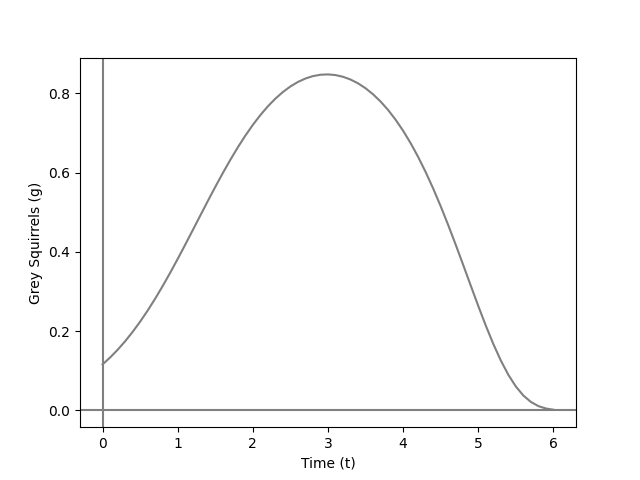
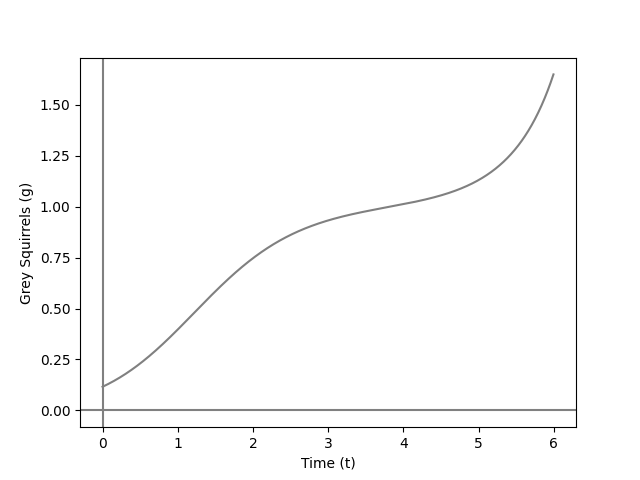
Added dual plots t0 and t=0.1

diff --git a/Question_2.py b/Question_2.py
@@ -7,8 +7,6 @@ plt.xlabel("Red Squirrels (r)")
 plt.ylabel("Grey Squirrels (g)")
 plt.title("Foward Euler")
 
-r = [0.5]
-g = [0.116]
 
 def rdot(r,g):
     return r*(1-g)
@@ -20,13 +18,30 @@ max = 6
 t = 0.1
 nstep = floor(max/t)
 t_total = [0]
+r = [0.5]
+g = [0.116]
 
 for j in range(nstep):
     r.append(r[j] + (t * rdot(r[j],g[j])))
     g.append(g[j] + (t * gdot(r[j],g[j])))
     t_total.append(float(t_total[j] + t))
 
-plt.plot(r,g,'orange')
+plt.plot(r,g,'orange',label = "t = 0.1")
+
+max = 6
+t = 0.00548
+nstep = floor(max/t)
+t_total = [0]
+r = [0.5]
+g = [0.116]
+
+for j in range(nstep):
+    r.append(r[j] + (t * rdot(r[j],g[j])))
+    g.append(g[j] + (t * gdot(r[j],g[j])))
+    t_total.append(float(t_total[j] + t))
+
+plt.plot(r,g,'red',label = "t = t0")
+plt.legend()
 plt.savefig("./Foward_Euler.png")
 
 plt.clf()
